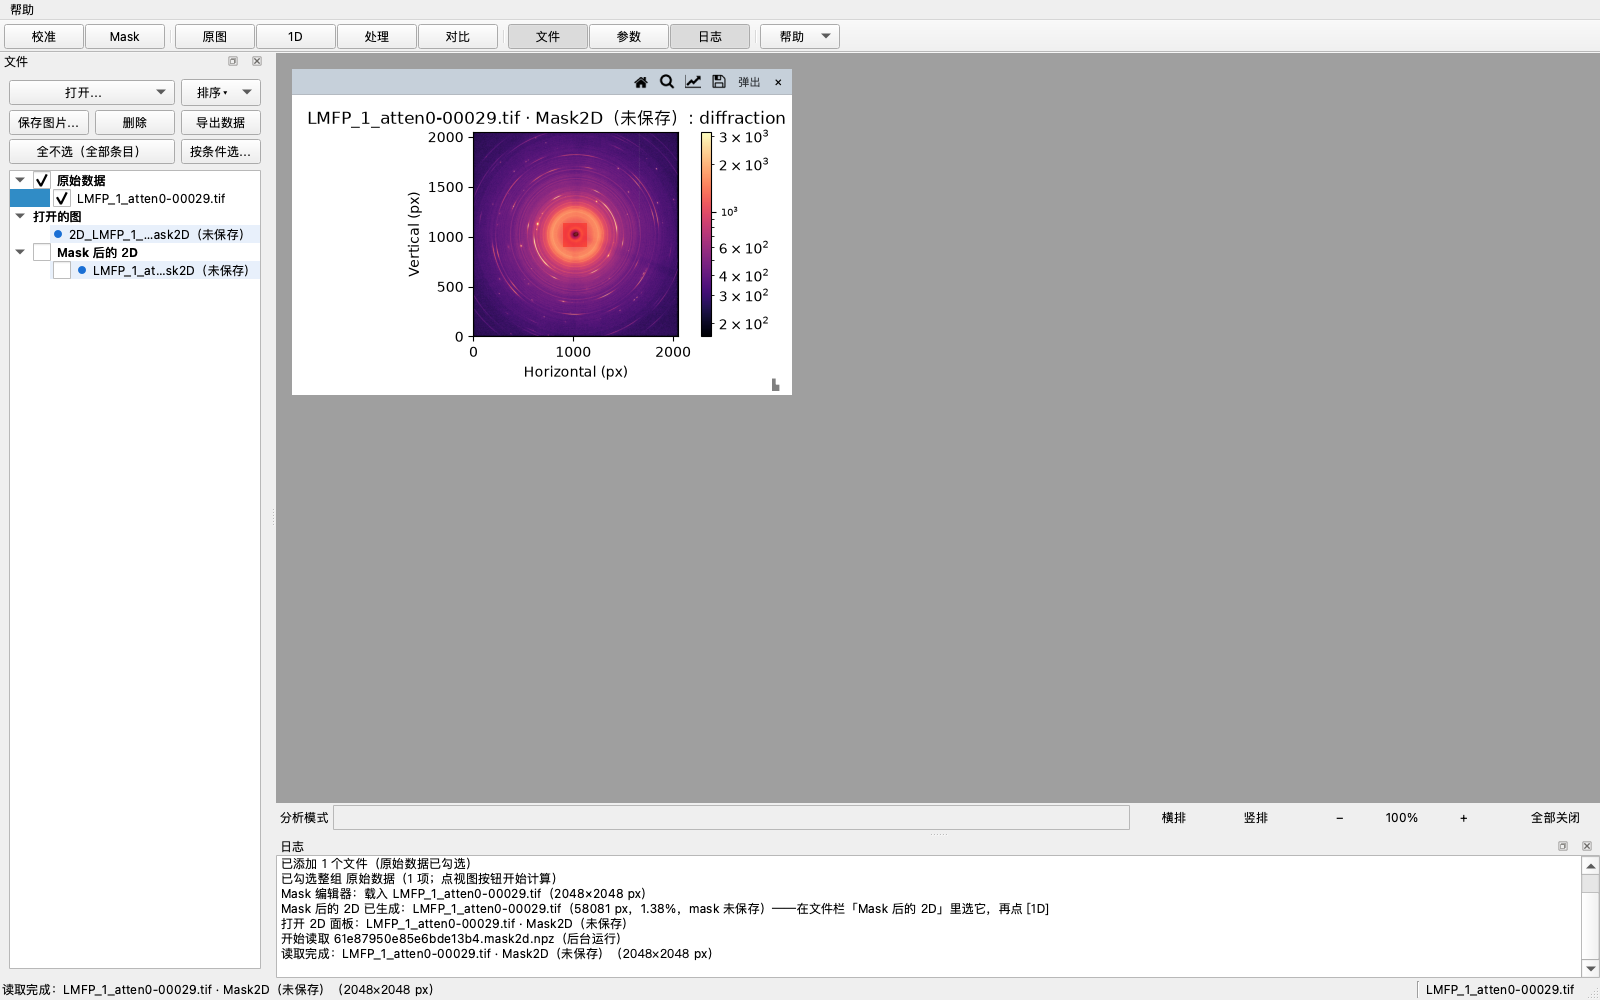
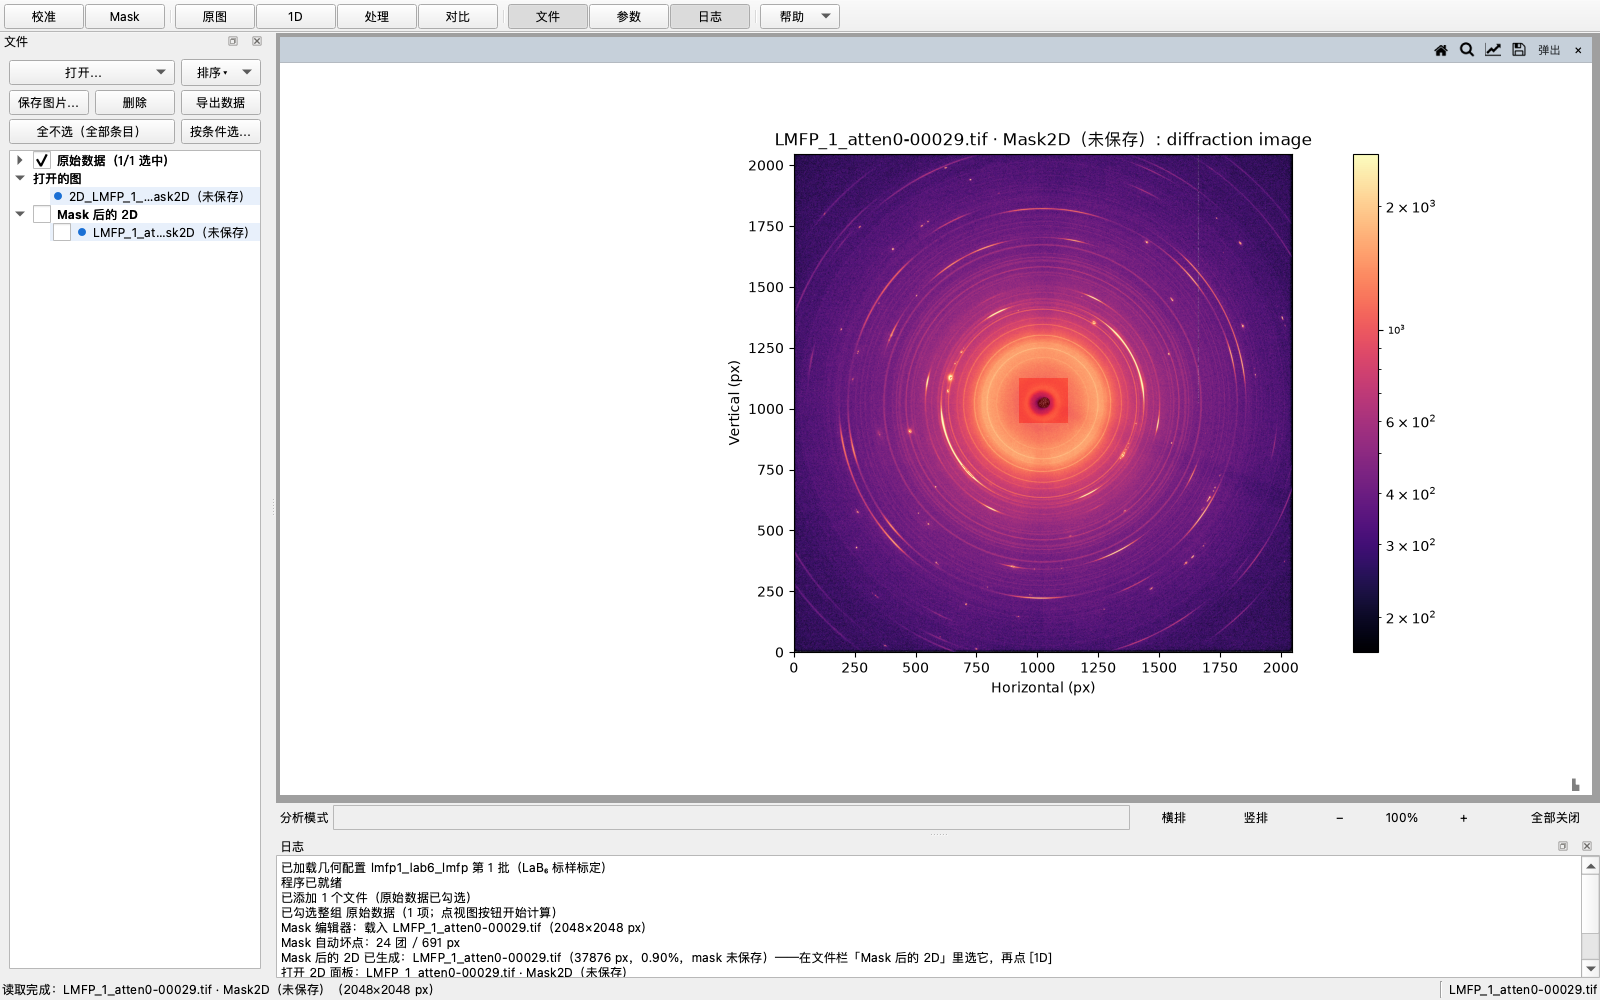
docs: cover the Mask editor view controls and refresh its shots
- MASK.zh-CN.md: wheel zoom / middle-drag pan / 全图, provenance colours,
  the merged [生成 Mask 2D] + "同时预览 1D" pair, and the checked count.
- NOTES.md, NOTES.zh-CN.md and CHANGELOG: same points at summary level.
- Re-shoot gui_mask.png and gui_mask2d.png with the new UI (both show the
  same mask, 37876 px / 0.90%, so the pair stays consistent).

diff --git a/docs/MASK.zh-CN.md b/docs/MASK.zh-CN.md
@@ -34,18 +34,31 @@
 - **径向 nσ（实验性）**：按径向环带找离群像素；真实环可能被误标，
   跑完要用橡皮/撤销修。
 
-图中红色半透明区域 = 将被遮掉的像素。**边缘/beamstop 在 1–8° 积分范围外**
-时，遮了也不会改变曲线；真正影响曲线的是范围内的坏点/强寄生斑。
+**看大图**：滚轮以光标为中心缩放；中键（Mac 触控板用 ⌥ 或 Shift +
+左键）拖动平移；**[全图]** 一键复位。遮罩永远是全分辨率，只有显示会
+按视图降采样（块内取最大 / 任一），缩到全图时孤立坏点也不会被平均掉。
+
+图中半透明色块 = 将被遮掉的像素，颜色标出来源：
+
+| 颜色 | 来源 |
+|---|---|
+| 红 | 画笔 / 矩形（手动） |
+| 青 | 自动坏点（局部） |
+| 绿 | 径向 nσ（实验性） |
+
+橡皮擦掉后就不显示，所以自动检测误标的地方用橡皮修掉即可。
+**边缘/beamstop 在 1–8° 积分范围外**时，遮了也不会改变曲线；真正影响
+曲线的是范围内的坏点/强寄生斑。
 
 ## 4. 生成「Mask 后的 2D」
 
-画好后有三种做法：
+画好后这样生成：
 
-| 按钮 | 作用 |
+| 操作 | 作用 |
 |---|---|
 | **[生成 Mask 2D]** | 只给当前图像生成一条 Mask 2D 数据 |
-| **[生成 Mask 2D 并预览 1D]** | 生成 + 在下方画 mask 前/后两条 1D 曲线 |
-| **[应用到勾选文件]** | 把同一张 mask 生成到文件栏里勾选的每个原始图（同探测器/同形状） |
+| **[生成 Mask 2D]** + 勾选「同时预览 1D」 | 生成 + 在下方画 mask 前/后两条 1D 曲线 |
+| **[应用到勾选文件（N）]** | 把同一张 mask 生成到文件栏里勾选的每个原始图（同探测器/同形状）；N = 当前勾选的原始图数量 |
 
 生成后：
 
@@ -109,7 +122,7 @@ meta  = z["meta"]    # JSON：原始图路径、mask 哈希、像素数、标签
 
 **Q：mask 后预览曲线几乎没变？**
 A：如果遮的是 beamstop/束心附近，它在 1–8° 积分里贡献很小。把矩形画到
-范围内的坏点团或某条环上，再点 [生成 Mask 2D 并预览 1D]。
+范围内的坏点团或某条环上，再勾着「同时预览 1D」点 [生成 Mask 2D]。
 
 **Q：为什么不能等 1D 出来再扣？**
 A：方位角积分把每个 2θ 环带里的像素做平均；坏点/beamstop 一旦进入平均，

diff --git a/CHANGELOG.md b/CHANGELOG.md
@@ -73,6 +73,15 @@
 - **Mask 快速上手（临时文档）**（2026-10-29）：新增
   `docs/MASK.zh-CN.md` 与 `showcase/gui/gui_mask.png` / `gui_mask2d.png`；
   《使用说明》仍锁 v0.1.5，v0.1.6 正式发版时并入并删除独立文件。
+- **Mask 编辑器视图与配色**（2026-10-29）：2D 视图支持滚轮缩放、中键
+  （或 ⌥/Shift + 左键）拖动平移、[全图] 复位；底图与 overlay 只按可视
+  窗口降采样绘制（块内取最大），绘制走 blit（16 ms 合并），2048² 上
+  画笔拖动不再整屏重画。overlay 按来源上色：红 = 画笔/矩形、青 = 自动
+  坏点、绿 = 径向 nσ（只影响显示，mask 仍是 bool）。原单独按钮
+  [生成 Mask 2D 并预览 1D] 合并为 [生成 Mask 2D] + 勾选「同时预览 1D」；
+  [应用到勾选文件] 显示当前勾选的原始图数量。编辑器改为 Qt.Tool 窗口
+  （浮在主界面上、不抢焦点）。`make_gui_shots.py` 新增 `gui_mask` /
+  `gui_mask2d` 两个可重拍场景。
 - **移除窗口级 mask 旧模型**（2026-10-29）：`current_mask`/`mask_epoch`/
   `_masked_curves` 及所有旧的“旧一代曲线”栅栏删除，GUI 只保留 Mask 2D
   产物一条路；空扫积分/瀑布/1D 不再接受全局 mask。

diff --git a/docs/NOTES.zh-CN.md b/docs/NOTES.zh-CN.md
@@ -229,6 +229,12 @@ masked 与未遮罩的 1D 是两个不同的源，可并存/并排对比。
 - 右键 Mask 2D → 导出独立 `.npz`（`image` + `mask` + `meta`），自包含。
 - 删除 Mask 2D（单条/整组）连带清它名下的 1D/处理产物缓存。
 - 标定的环检测仍用原图；mask 只作用于积分。
+- 编辑器 2D 视图：滚轮缩放、中键（或 ⌥/Shift + 左键）拖动平移、[全图]
+  复位。底图和 overlay 按视图降采样并裁到可视窗口，绘制走 blit（只重画
+  overlay）；mask 与产物仍是全分辨率。
+- overlay 按来源上色：红 = 画笔/矩形，青 = 自动坏点，绿 = 径向 nσ。颜色
+  只影响显示，mask 本身仍是一张 bool 数组。
+- 原 [生成 Mask 2D 并预览 1D] 已并入 [生成 Mask 2D] + 勾选「同时预览 1D」。
 - 径向 nσ 自动检测是实验性：真实 LMFP 帧上会沿真实环误标 ~18k px，
   生产用手动画 + 局部坏点。
 

diff --git a/docs/NOTES.md b/docs/NOTES.md
@@ -262,6 +262,14 @@ a self-contained image + mask + meta file; deleting a Mask 2D removes its 1D
 and processed-product caches. Calibration ring detection still uses the raw
 image. The radial n-sigma detector remains experimental (it flags real rings).
 
+Editor view: wheel zoom, middle-button (or Option/Shift + left) drag to pan,
+[全图] resets. Base and overlay are downsampled to the viewed window and
+painted with blitting, so strokes only redraw the overlay — the mask itself
+stays full-resolution. Overlay colors mark provenance: red = brush/rectangle,
+cyan = automatic hot-pixel detection, green = radial n-sigma. The old
+"generate + preview" button is now [生成 Mask 2D] plus a "同时预览 1D"
+checkbox.
+
 Quick start: `docs/MASK.zh-CN.md`. Tests: `tests/test_mask.py`,
 `tests/test_mask_editor.py`, `tests/test_masked2d.py`.
 
